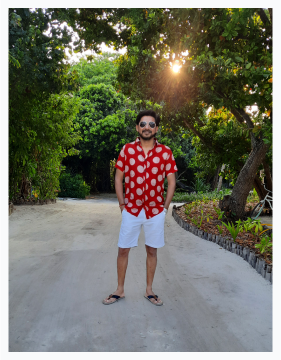
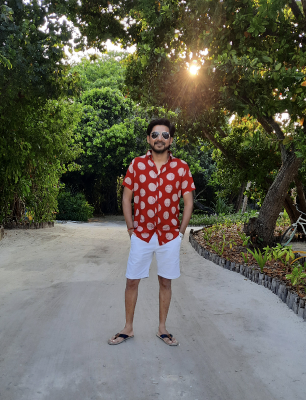
end portfolio

diff --git a/components/Nav.js b/components/Nav.js
@@ -49,7 +49,7 @@ export function Nav() {
   }
 
   return (
-    <div className="flex justify-between px-4 md:px-20 dark:text-[#F9FAFB] dark:bg-[#030712]">
+    <div className="flex justify-between px-4 md:px-20 dark:text-[#D1D5DB] dark:bg-[#030712]">
       <div className="font-[700] text-3xl ">{`<SS />`}</div>
 
       <div className="flex gap-[24px] py-[0] items-center">
@@ -67,13 +67,13 @@ export function Nav() {
             Download
           </button>
         </div>
-
-        <div className="flex justify-between  gap-4 lg:hidden z-10">
+        
+        <div className="flex justify-between  gap-4 lg:hidden z-10 ">
           <button onClick={openMenu}>
             <IoMdMenu />
           </button>
 
-          <div>
+          <div >
             <div
               className={`fixed transition-all inset-0 bg-slate-500/90 ${
                 open ? "block" : "hidden"
@@ -81,19 +81,19 @@ export function Nav() {
               onClick={closeMenu}
             ></div>
             <div
-              className={`fixed top-0 bottom-0 transition-all w-64 text-black bg-white shadow-lg ${
+              className={`fixed dark:bg-[#030712] dark:text-[#D1D5DB] top-0 bottom-0 transition-all w-64 text-black bg-white shadow-lg ${
                 open ? "right-0" : "-right-full"
               }`}
             >
-              <div className="flex items-center justify-between p-4">
-                <div className="text-2xl font-bold">{`<SS />`}</div>
+              <div className="flex items-center justify-between p-4 ">
+                <div className="text-2xl font-bold ">{`<SS />`}</div>
                 <button onClick={closeMenu}>
                   <IoMdClose />
                 </button>
               </div>
               <hr className="mb-4" />
 
-              <div className="flex flex-col ml-4 gap-4">
+              <div className="flex flex-col ml-4 gap-4 ">
                 {navigation.map((nav) => (
                   <Link
                     key={nav.link}
@@ -105,10 +105,10 @@ export function Nav() {
                 ))}
               </div>
               <hr className="my-4" />
-              <div className="flex flex-col gap-4 mx-3 text-gray-600 font-medium text-base">
+              <div className="flex flex-col gap-4 mx-3 text-gray-600 font-medium text-base ">
                 <div className="flex items-center justify-between mr-3">
                   <div>Switch Theme</div>
-                  <IoSunnyOutline />
+                  <IoSunnyOutline onClick={modeHandler}/>
                 </div>
                 <button className=" py-2.5 bg-gray-900 text-gray-50 rounded-lg text-sm font-medium">
                   Download CV

diff --git a/components/aboutMe/About.js b/components/aboutMe/About.js
@@ -2,8 +2,8 @@ import Image from "next/image";
 
 export function AboutMe(){
     return (
-        <div className="flex flex-col md:gap-12 py-16 px-4 gap-6 bg-gray-50 md:py-24 md:px-20 dark:text-[#F9FAFB] dark:bg-[#111827]">
-            <div className="mx-auto py-1 px-4 bg-gray-200 rounded-lg inline-block text-sm font-medium text-gray-600 mb-5">About me</div>
+        <div className="flex flex-col md:gap-12 py-16 px-4 gap-6 bg-gray-50 md:py-24 md:px-20 dark:text-gray-600 dark:bg-[#111827]">
+            <div className="mx-auto py-1 px-4 bg-gray-200 rounded-lg inline-block text-sm font-medium text-gray-600 mb-5 dark:bg-[#374151] dark:text-[#D1D5DB]">About me</div>
             
             {/* <div className=" px-8 md:w-[280px] max-w-[400px] mx-auto">
                     <div className=" bg-gray-200 w-full mb-16 aspect-[5/6] relative md:top-[10%] md:left-[10%]">
@@ -11,8 +11,8 @@ export function AboutMe(){
                  </div> */}
             <div className="md:flex md:gap-[192px]">
                 <div className=" mb-12 md:w-[330px] max-w[400px] mx-auto ">
-                    <div className=" bg-gray-200 w-full mb-16 aspect-[5/6] relative md:top-[10%] md:left-[10%]">
-                        <Image className="relative rigth-80 object-cover w-[90%] block md:w-full h-full bottom-[5%] md:bottom-[10%] right-[-5%] md:right-[10%]" src="/images/About.png" width={280} height={360}/>
+                    <div className=" bg-gray-200 dark:bg-[#374151] w-full mb-16 aspect-[5/6] relative md:top-[10%] md:left-[10%]">
+                        <Image className="relative rigth-80 object-cover w-[90%] block md:w-full h-full bottom-[5%] md:bottom-[10%] right-[-5%] md:right-[10%] border-[white] border-8 dark:border-[#111827]" src="/images/about.png" width={280} height={360}/>
                     </div>
                 </div>
                 <div className="flex flex-col gap-6 md:flex-1">

diff --git a/components/Work/Works.js b/components/Work/Works.js
@@ -59,11 +59,11 @@ const worksData = [
 
 export function Works() {
   return (
-    <div className="dark:text-[#F9FAFB] dark:bg-[#030712] md:flex md:flex-col md:gap-6">
-      <div className="py- px-4 md:py-24 md:px-20 dark:text-[#F9FAFB] rounded-lg">
+    <div className="dark:text-[#D1D5DB] dark:bg-[#030712] md:flex md:flex-col md:gap-6">
+      <div className="py- px-4 md:py-24 md:px-20 dark:text-[#D1D5DB] rounded-lg">
         <div className="mb-6">
-          <div className="flex justify-center pb-4">
-            <Tag name="Work" />
+          <div className="flex justify-center pb-4  py-16">
+            <Tag className="dark:bg-[#374151] dark:text-[#D1D5DB] py-16" name="Work" />
           </div>
           <div className="mb-6 text-center md:mb-12">
             Some of the noteworthy projects I have built:
@@ -96,7 +96,7 @@ function WorkCard({ isReverse = false, work }) {
     >
       <div className="md:w-[50%] md:rounded justify-center p-8 bg-gray-100 rounded-lg md:p-12 dark:bg-[#1F2937]">
         <Image
-          src="/skill.png"
+          src="/work.png"
           width={279}
           height={192}
           className="w-full rounded-lg shadow "

diff --git a/components/TopHeader.js b/components/TopHeader.js
@@ -6,10 +6,10 @@ import { PiFigmaLogoLight } from "react-icons/pi";
 
 export function Header() {
   return (
-    <div className="dark:text-[#F9FAFB] dark:bg-[#030712] md:flex py-16 px-4 md:py-24 md:px-20 md:gap-12 md:flex-row-reverse">
+    <div className="dark:text-[#D1D5DB] dark:bg-[#030712] md:flex py-16 px-4 md:py-24 md:px-20 md:gap-12 md:flex-row-reverse">
       <div className=" px-8 md:w-[380px] max-w-[400px] mx-auto">
-        <div className=" bg-gray-200 w-full mb-16 aspect-[5/6] relative md:top-[10%] md:left-[10%]">
-          <Image className="relative rigth-80 object-cover w-[90%] block md:w-full h-full bottom-[5%] md:bottom-[10%] right-[-5%] md:right-[10%]" src="/images/Pic.png " width={240} height={280}   />
+        <div className=" bg-gray-200 dark:bg-[#374151] w-full mb-16 aspect-[5/6] relative md:top-[10%] md:left-[10%]">
+          <Image className="border-[white] border-8 dark:border-[#030712] relative rigth-80 object-cover w-[90%] block md:w-full h-full bottom-[5%] md:bottom-[10%] right-[-5%] md:right-[10%]" src="/images/picc.png " width={240} height={280}   />
         </div>
 
       </div>

diff --git a/components/footer/Footer.js b/components/footer/Footer.js
@@ -20,12 +20,12 @@ export function Footer() {
         <div className="md:max-w-[280px] mx-auto dark:text-[#F9FAFB]">
             <div className="flex justify-between items-center ">
                 <GoMail />
-                <p className="text-gray-900 dark:text-[#F9FAFB]">reachsagarshah@gmail.com</p>
+                <p className="text-gray-900 dark:text-[#D1D5DB]">reachsagarshah@gmail.com</p>
                 <LuCopy />
             </div>
             <div className="flex justify-center items-center gap-4 pb-6 md:max-w-[596px]">
                 <IoCallOutline />
-                <p className="text-gray-900 dark:text-[#F9FAFB]">+91 8980500565</p>
+                <p className="text-gray-900 dark:text-[#F9FAFB] ">+91 8980500565</p>
                 <LuCopy />
             </div>
         </div>

diff --git a/components/Experience/Experiences.js b/components/Experience/Experiences.js
@@ -37,10 +37,10 @@ const cards = [
 
 export function Experience() {
   return (
-    <div className=" bg-gray-50 dark:text-[#F9FAFB] dark:bg-[#111827]">
+    <div className=" bg-gray-50 dark:text-[#D1D5DB] dark:bg-[#111827]">
       <div className="py-16 px-4 md:py-24 md:px-20 md:max-w-[896px] mx-auto">
         <div className="text-center">
-          <div className="mx-auto inline-block px-5 py-1 bg-gray-200 rounded-lg mb-4 text-sm font-medium text-gray-600">
+          <div className="mx-auto inline-block px-5 py-1 bg-gray-200 rounded-lg mb-4 text-sm font-medium text-gray-600 dark:bg-[#374151] dark:text-[#D1D5DB]">
             Experience
           </div>
           <div className="font-normal text-lg text-gray-600 mb-6">

diff --git a/components/Skills/Skill.js b/components/Skills/Skill.js
@@ -5,7 +5,7 @@ export function Skills(){
     return(
         <div className="py-16 px-4 md:py-24 md:px-20 dark:text-[#F9FAFB] dark:bg-[#030712]">
             <div className="text-center ">
-                <div className="mx-auto py-1 px-4 inline-block  bg-gray-200 rounded-lg mb-4 text-sm font-medium text-gray-600">Skills</div>
+                <div className="mx-auto py-1 px-4 inline-block  bg-gray-200 rounded-lg mb-4 text-sm font-medium text-gray-600 dark:bg-[#374151] dark:text-[#D1D5DB]">Skills</div>
                 <div className="font-normal text-lg text-gray-600 mb-6">The skills, tools and technologies I am really good at:</div>
             </div>
             <div>

diff --git a/pages/index.js b/pages/index.js
@@ -11,7 +11,7 @@ import { Works } from "@/components/Work/Works";
 
 export default function Home() {
   return (
-    <main max-w-1440px>
+    <main max-w-1440px className="dark:bg-[#030712]">
       <Nav/>
 
       <Header />
@@ -20,7 +20,6 @@ export default function Home() {
       <Skills />
       <Experience />
       <Works />
-      
       <Footer />
       <FooterNav />
       
